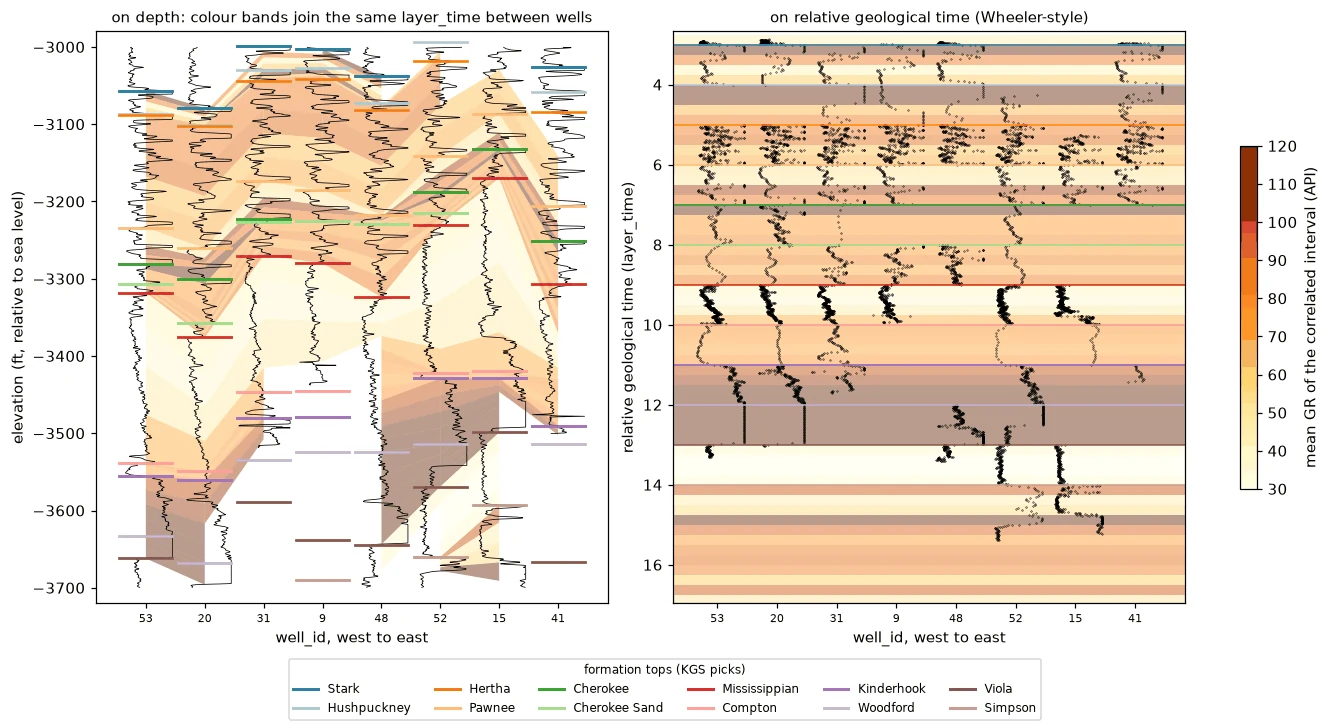
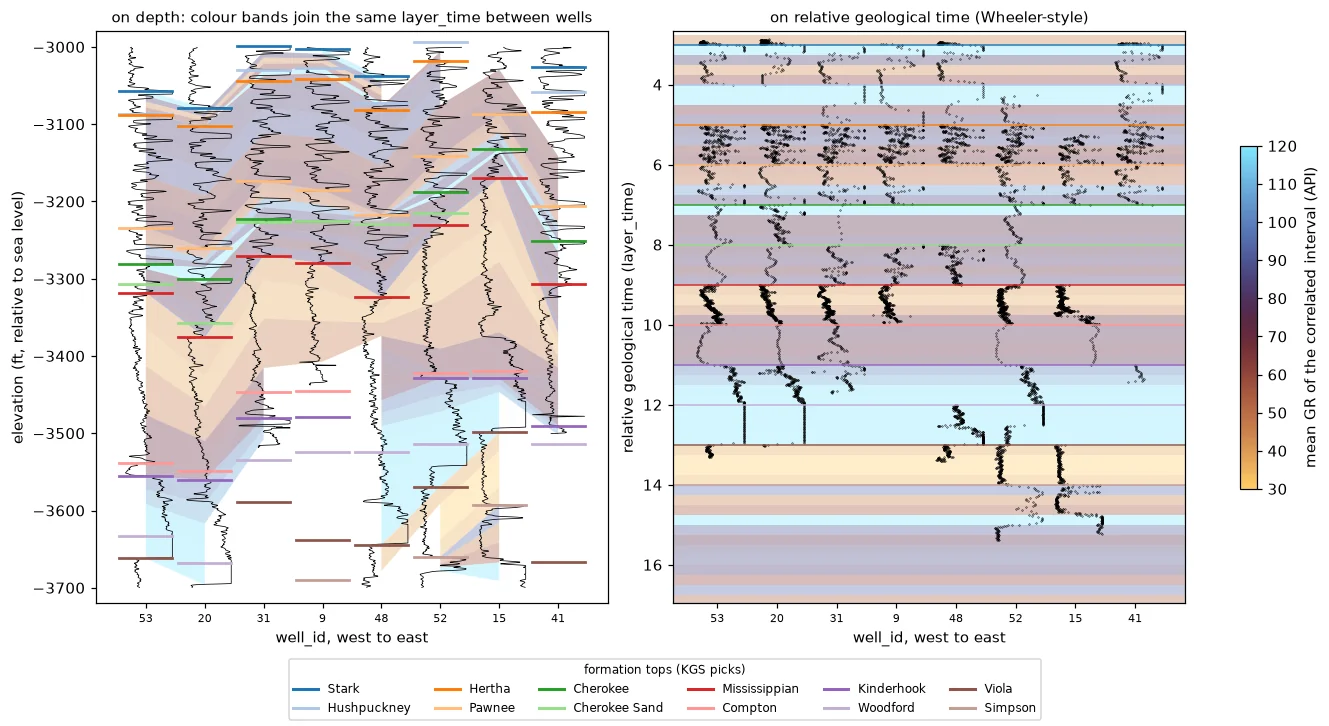
SubsurfiX: correlation figure in managua; trim caption

diff --git a/projects/SubsurfiX/index.html b/projects/SubsurfiX/index.html
@@ -77,7 +77,7 @@
         <div class="gallery">
           <figure><img src="figures/ex_qc_gap_fill.webp" width="687" height="468" loading="lazy" alt="Raw, cleaned and gap-filled logs."><figcaption>One Kansas well: the raw log (grey), what the clean-up kept (black) and the filled samples (red).</figcaption></figure>
           <figure><img src="figures/ex_well_correlation.webp" width="1329" height="726" loading="lazy" alt="West&ndash;east well correlation section."><figcaption>Eight Kansas wells, west to east, with the formation tops picked by the Kansas Geological Survey (KGS). Left: by depth, colour bands join the same interval from well to well. Right: the same wells on relative geological time from the dynamic time warping (DTW) correlation, where the beds line up.</figcaption></figure>
-          <figure class="wide"><img src="figures/ex_property_maps.webp" width="1222" height="1057" loading="lazy" alt="Porosity maps of one layer by four methods, one box per method."><figcaption>Porosity in one grid layer, 20&ndash;25 m below the Mississippian top (the top of the Mississippian carbonates, 952&ndash;1029 m below sea level in these wells), mapped by four methods. Each box is one method, each map has its own colour bar, and triangles are the well data in that layer. Kriging, estimate and variance from one run: the smooth best estimate and how uncertain it is (Matheron 1963). Sequential Gaussian simulation (SGS), one realization and the mean of 8: equally likely porosity maps (Deutsch &amp; Journel 1998, GSLIB). Sequential indicator simulation (SIS), one realization: clean or tight rock (Journel 1983; Deutsch &amp; Journel 1998, GSLIB). Machine learning (ML) P50: the median of a quantile regression forest (Meinshausen 2006). All are SubsurfiX&rsquo;s own implementations based on these methods.</figcaption></figure>
+          <figure class="wide"><img src="figures/ex_property_maps.webp" width="1222" height="1057" loading="lazy" alt="Porosity maps of one layer by four methods, one box per method."><figcaption>Porosity in one grid layer, 20&ndash;25 m below the Mississippian top (the top of the Mississippian carbonates, 952&ndash;1029 m below sea level in these wells), mapped by four methods. Each box is one method, each map has its own colour bar, and triangles are the well data in that layer. Kriging, estimate and variance from one run: the smooth best estimate and how uncertain it is (Matheron 1963). Sequential Gaussian simulation (SGS), one realization and the mean of 8: equally likely porosity maps (Deutsch &amp; Journel 1998, GSLIB). Sequential indicator simulation (SIS), one realization: clean or tight rock (Journel 1983; Deutsch &amp; Journel 1998, GSLIB). Machine learning (ML) P50: the median of a quantile regression forest (Meinshausen 2006).</figcaption></figure>
         </div>
       </section>
 

diff --git a/AI_EDITING_LOG.md b/AI_EDITING_LOG.md
@@ -182,3 +182,4 @@ Decision: every project page now Overview → visuals → Key features. pyCoreRe
 - 2026-10-26: pyRockImageLab page: new 'Browser app' section (two autoplay/loop demo videos + WebP posters in projects/pyRockImageLab/videos/) between Key features and Installation; version 0.1.0; removed QuadPicker/desktop-plot-window wording for the 0.1.0 browser app.
 - 2026-10-26: PyPI version auto-update: js/pypi-version.js replaces [data-pypi] spans (fallback kept, sessionStorage cache, silent failure); Version fact added/wired on pyCoreRelator, pyTopoComplexity, pyValleyWidth, pyPetrograph, pyRockImageLab pages; tools/update_versions.py + daily workflow refresh fallbacks. pyLogCrafter and pyBasinSubs stay static.
 - 2026-10-26: badges trimmed to version/license/language only: card labels -> language only; removed downloads (pepy, conda), DOI badges from cards (build_projects.py); removed Methods/Example data/Built on/Examples/Developed at facts from project pages.
+- 2026-11-04: SubsurfiX page: correlation figure (figures/ex_well_correlation.webp, 1329x726) redrawn with the managua colormap at band alpha 0.35; removed 'own implementations' sentence from the porosity-map caption.
